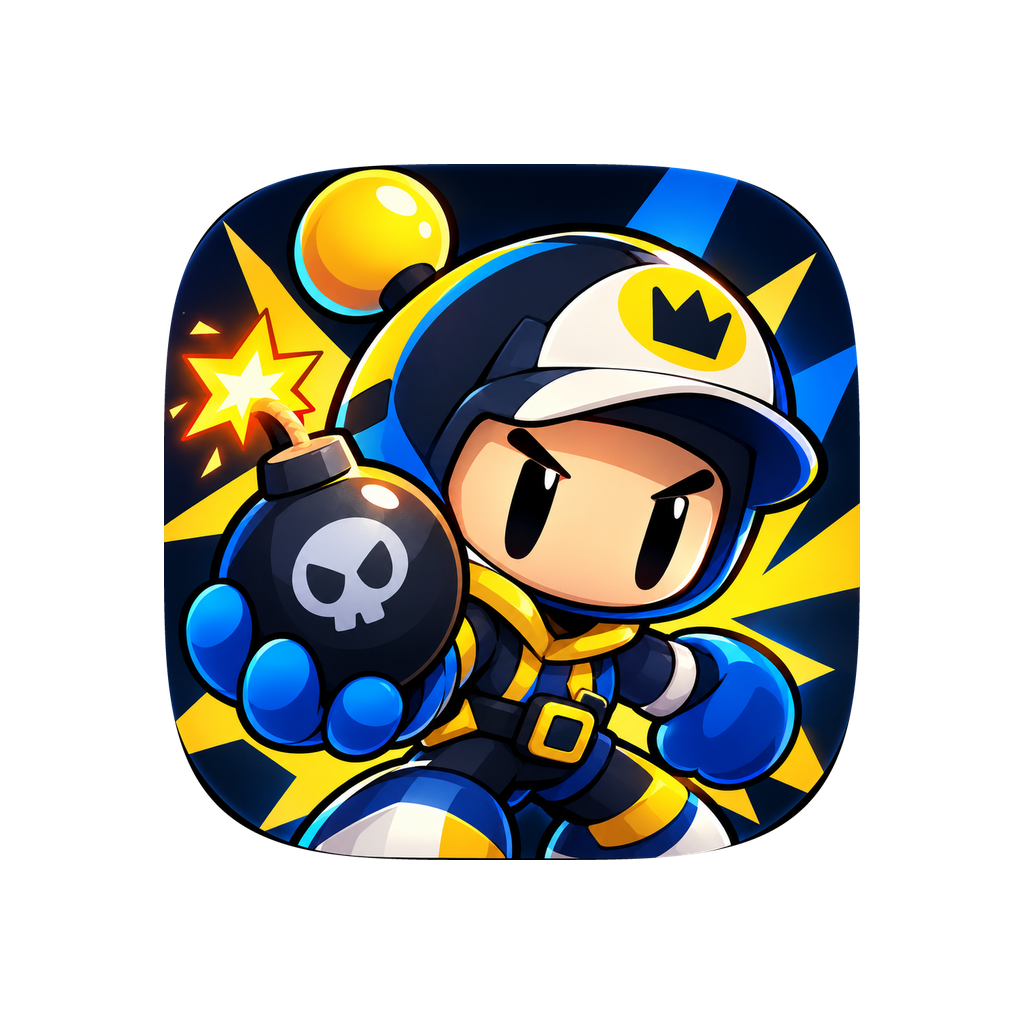
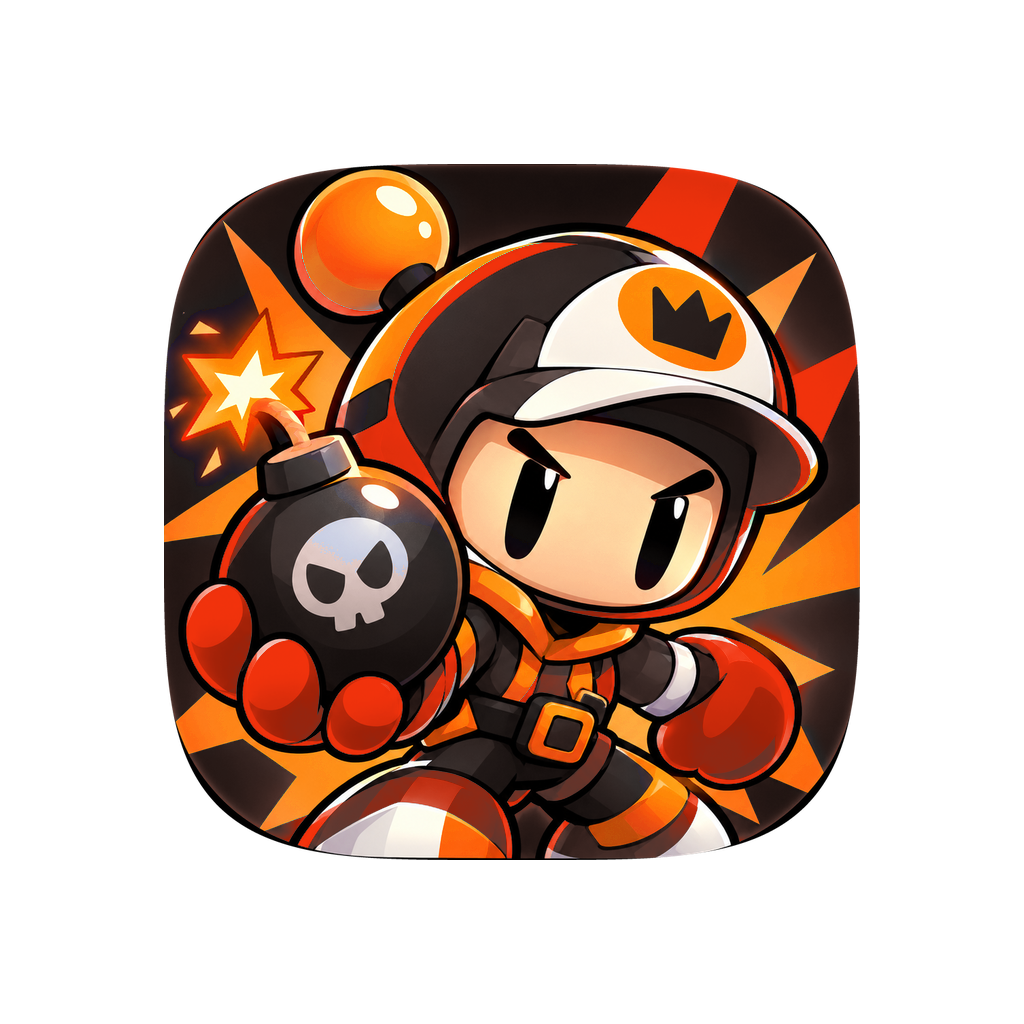
Boomz : icône et écran de lancement aux couleurs du titre
Bleus -> rouge braise et pierre sombre, jaunes -> orange flamme ; fond de
l'écran de lancement accordé à celui de l'application (#120e0d).

Claude-Session: https://claude.ai/code/session_015FVYtPWo1zysGMJvJQ6B4A

Changed region(s): [[0.1562, 0.1562, 0.8438, 0.8438]]

diff --git a/boomz/index.html b/boomz/index.html
@@ -5,7 +5,7 @@
     <meta name="viewport" content="width=device-width, initial-scale=1.0, viewport-fit=cover" />
     <meta name="theme-color" content="#120e0d" />
     <link rel="icon" type="image/png" href="/favicon.png?v=2" />
-    <link rel="apple-touch-icon" href="/icons/apple-touch-icon.png?v=2" />
+    <link rel="apple-touch-icon" href="/icons/apple-touch-icon.png?v=3" />
     <meta name="description" content="Boomz : posez des bombes, faites sauter les caisses, piégez vos amis ! Jeu multijoueur en ligne, jusqu'à 6 joueurs." />
     <title>Boomz</title>
   </head>
@@ -17,7 +17,7 @@
       <div class="home-shade" aria-hidden="true"></div>
       <div class="home-layout">
         <div class="home-hero">
-          <img class="mascot" src="/icons/icon-512.png?v=2" alt="" width="512" height="512" />
+          <img class="mascot" src="/icons/icon-512.png?v=3" alt="" width="512" height="512" />
           <h1 class="logo"><img class="logo-img" src="/title-boomz.png?v=3" alt="Boomz" width="490" height="301" /></h1>
           <canvas class="chase" id="chase" aria-hidden="true"></canvas>
           <p class="tagline" id="tagline">Posez des bombes, faites sauter les caisses, piégez vos amis !</p>

diff --git a/boomz/public/invitation.html b/boomz/public/invitation.html
@@ -6,7 +6,7 @@
     <meta name="theme-color" content="#1b1f2e" />
     <meta name="description" content="Boomz : posez des bombes, faites sauter les caisses, piégez vos amis ! Jeu multijoueur sur iPhone." />
     <link rel="icon" type="image/png" href="/favicon.png?v=2" />
-    <link rel="apple-touch-icon" href="/icons/apple-touch-icon.png?v=2" />
+    <link rel="apple-touch-icon" href="/icons/apple-touch-icon.png?v=3" />
     <title>Boomz</title>
     <style>
       :root {
@@ -107,7 +107,7 @@
   </head>
   <body>
     <main>
-      <img class="icon" src="/icons/icon-512.png?v=2" alt="" width="512" height="512" />
+      <img class="icon" src="/icons/icon-512.png?v=3" alt="" width="512" height="512" />
       <h1>Boomz</h1>
       <p class="tagline">Posez des bombes, faites sauter les caisses, piégez vos amis !</p>
       <div class="card">
